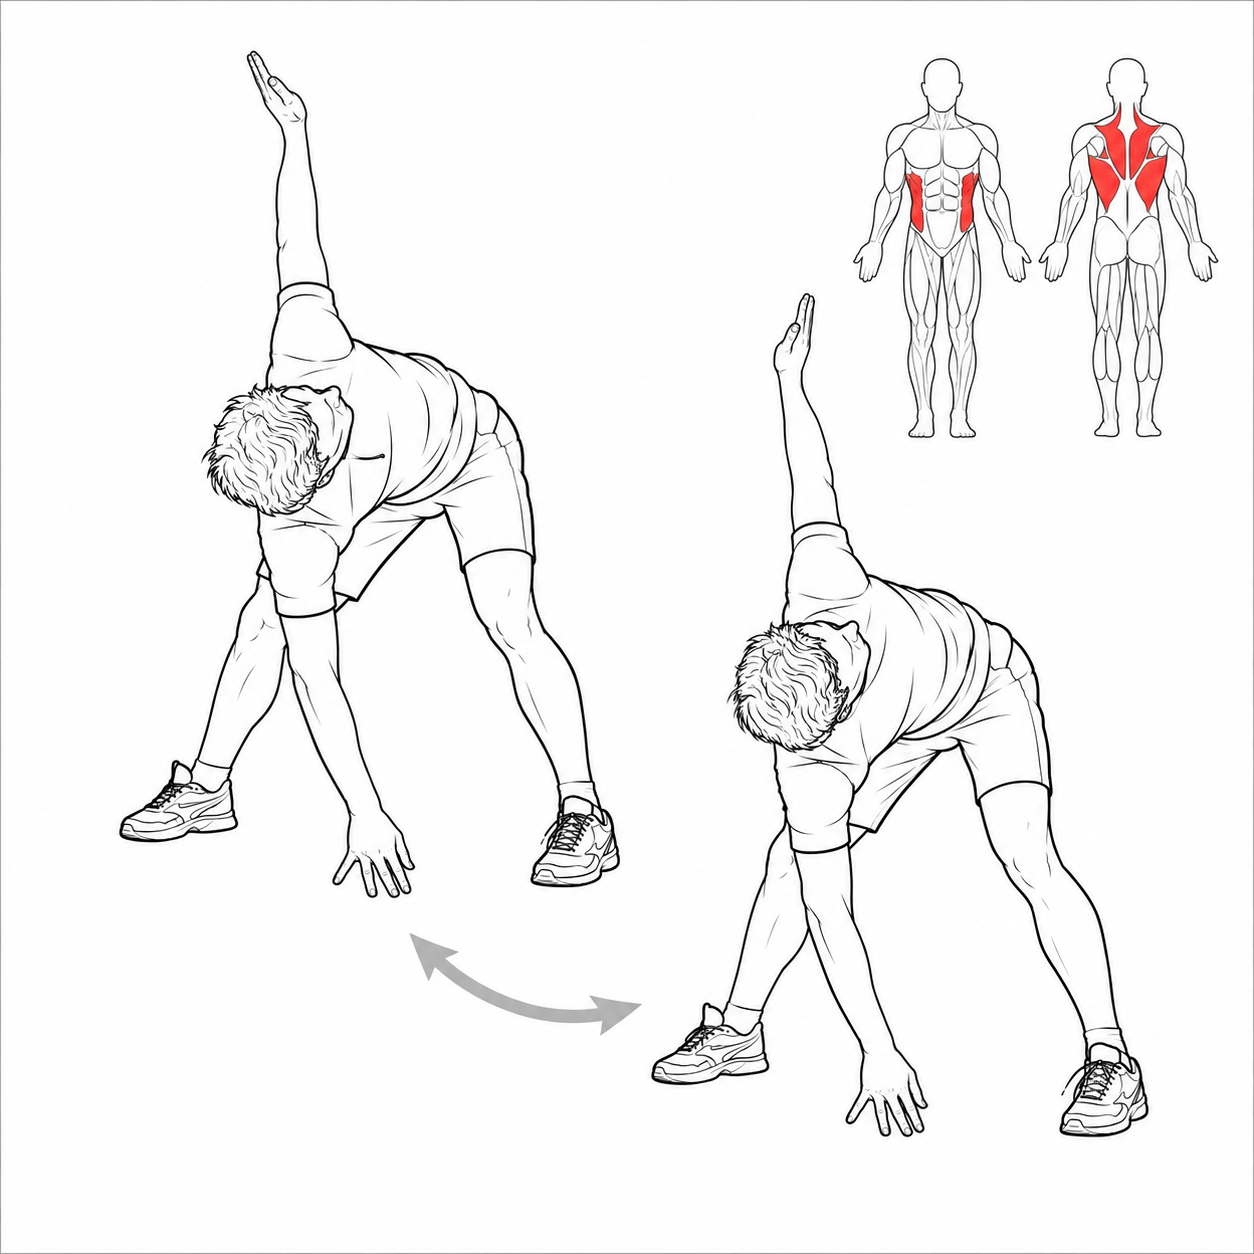
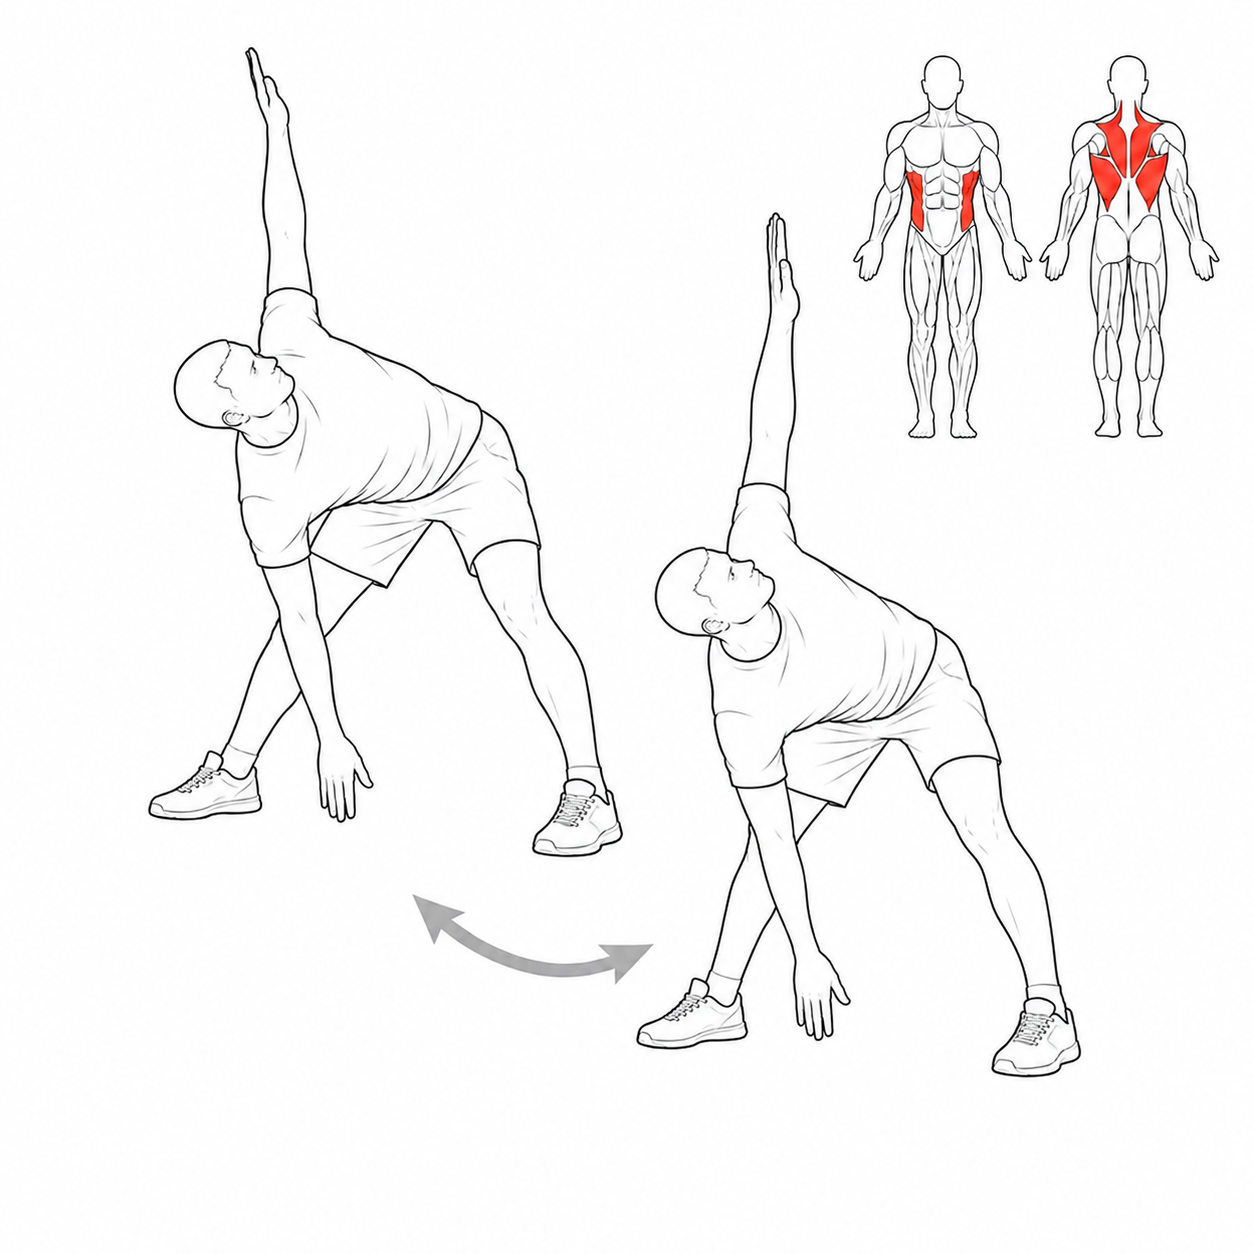
Systemoppdatering

diff --git a/index.html b/index.html
@@ -552,13 +552,39 @@
                     #kopier_data:hover {
                         background: #3a3a3a;
                     }
+
+                    #datagrunnlag_valg {
+                        padding: 8px;
+                        border: none;
+                        background: transparent;
+                        color: var(--text-color);
+                        font-weight: 500;
+                        cursor: pointer;
+                        border-radius: 10px;
+                    }
+
+                    .center_adjust{
+                        display: flex;
+                        flex-direction: column;
+                        align-items: center;
+                    }
                 </style>
 
                  <div class="open_filter__content">
                     <!-- Her kommer innholdet i overlay -->
                     <div class="analyse_boks">
                         <textarea  name="analyse" id="analyse_tekst" placeholder="Skriv forespørsel her ..."></textarea>
-                        <button id="kopier_data"><i class="fa-solid fa-arrow-up"></i></button>
+                        <span class="center_adjust">
+                            <button id="kopier_data"><i class="fa-solid fa-arrow-up"></i></button>
+                            <select name="valg" id="datagrunnlag_valg">
+                                <option value="7">7 dager</option>
+                                <option value="30">30 dager</option>
+                                <option value="90">90 dager</option>
+                                <option value="180">180 dager</option>
+                                <option value="365">365 dager</option>
+                                <option value="10000">All Data</option>
+                            </select>
+                        </span>
                     </div>
                  </div>
                  </div>

diff --git a/promt.js b/promt.js
@@ -1,8 +1,16 @@
-import { createClient } from 'https://cdn.jsdelivr.net/npm/@supabase/supabase-js/+esm'
+    import { createClient } from 'https://cdn.jsdelivr.net/npm/@supabase/supabase-js/+esm'
 
-const supabaseUrl = 'https://phvvbnmpujqyzqicdrrc.supabase.co'
-const supabaseKey = 'sb_publishable_owGo8PDUBRjA6l4Iq5RT0Q_N8w8Awhj'
-const supabase = createClient(supabaseUrl, supabaseKey)
+    const supabaseUrl = 'https://phvvbnmpujqyzqicdrrc.supabase.co'
+    const supabaseKey = 'sb_publishable_owGo8PDUBRjA6l4Iq5RT0Q_N8w8Awhj'
+    const supabase = createClient(supabaseUrl, supabaseKey)
+
+
+    // Definerer datagrunnlaget for analysen (Antall dager med data)
+    let datagrunnlag = 7;
+    const datagrunnlag_valg = document.getElementById("datagrunnlag_valg");
+    datagrunnlag_valg.addEventListener("change", () => {
+        datagrunnlag = datagrunnlag_valg.value;
+    });
 
     let prompt = "";
 
@@ -16,10 +24,17 @@ const supabase = createClient(supabaseUrl, supabaseKey)
 
         document.querySelector(".min_meldings_boks").style.display = "block";
 
-        async function hentData(tabell) {              
+        async function hentData(tabell) {   
+            const fraDato = new Date();
+            fraDato.setDate(fraDato.getDate() - Number(datagrunnlag));
+
+            // Gjør om til YYYY-MM-DD
+            const fraDatoString = fraDato.toISOString().split("T")[0];
+
             const { data, error } = await supabase 
                 .from(tabell)
                 .select('*')
+                .gte('dato', fraDatoString)
                 .order('dato', { ascending: false });
             return data;
         }
